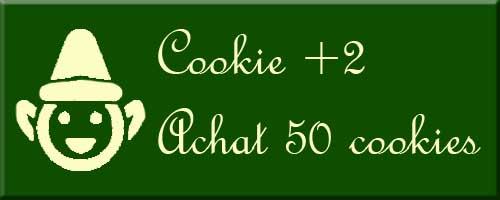
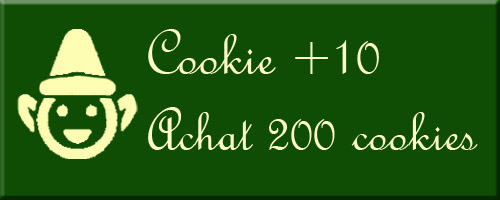
travail sur html et css pour le visuel

Changed region(s): [[0.03, 0.15, 0.96, 0.87], [0.27, 0.12, 0.78, 0.39]]

diff --git a/index.html b/index.html
@@ -1,0 +1,20 @@
+<!DOCTYPE html>
+<html>
+  <head>
+    <meta charset="utf-8">
+    <title>Cookie clicker</title>
+    <link rel="stylesheet" href="css/cookie.css">
+  </head>
+  <body>
+    <img src="image/cookie.png"  onClick="scoreadd()" alt="image cookie" id="cookie"/>
+	<div id="boutons">
+    <img src="image/bouton_grand_mere.jpg" alt="bouton multiplicateur +2" onClick="grannyClick()" id="multiplicateur" width="180px">
+    <img src="image/bouton_elfe.jpg" alt="bouton multiplicateur +10" width="180px">
+    <img src="image/bouton_pere_noel.jpg" alt="bouton auto-click" width="180px">
+  </div>
+    <img src="image/bouton_reset.jpg" type="button" alt="bouton reset" id="reset" onclick="reset()" value="reset"/>
+		<p id="clicks">0</p>
+    <p id="high">0</p>
+        <script type="text/javascript" src="js/js.js"></script>
+  </body>
+</html>

diff --git a/css/cookie.css b/css/cookie.css
@@ -1,4 +1,40 @@
-img {margin-top: 40px;
+html {
+	margin:0;
+  	padding:0;
+	background: url("fond_cookie.jpg") no-repeat center fixed; 
+  	background-size: 100% 100%; 
 }
-body {text-align: center;}
-#multiplicateur {width: 100px;}
+
+#boutons {
+	width: 50px;
+	
+	position:absolute;
+	top: 130px;
+	right: 460px;
+}
+
+#cookie {
+	width: 250px;
+	position: absolute;
+	top : 120px;
+	left: 250px;
+}
+
+#reset {
+	width: 170px;
+	position: absolute;
+	bottom: 20px;
+	right: 40px;
+}
+
+#clicks {
+	position: absolute;
+	bottom: 90px;
+	left: 350px;
+}
+
+#high {
+	position: absolute;
+	bottom: 90px;
+	right: 415px;
+}
